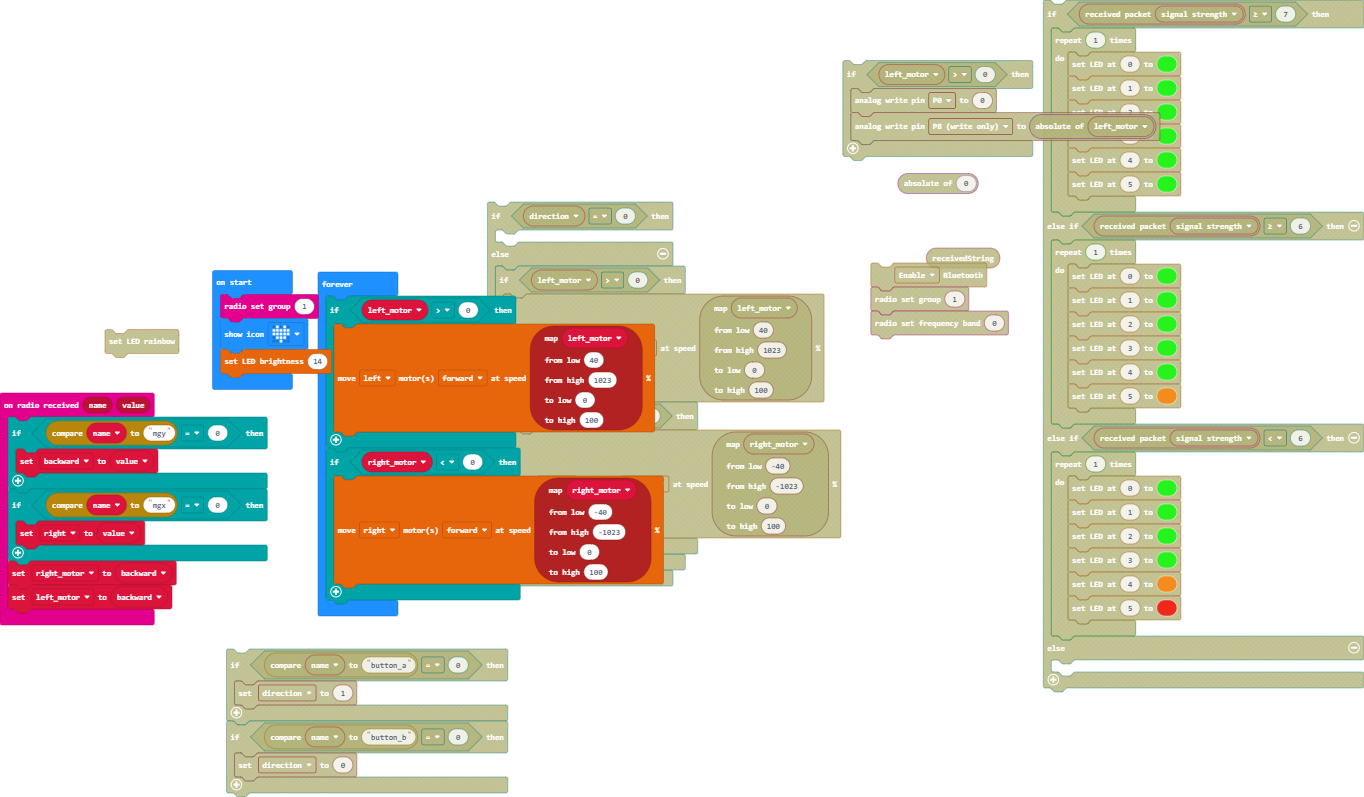
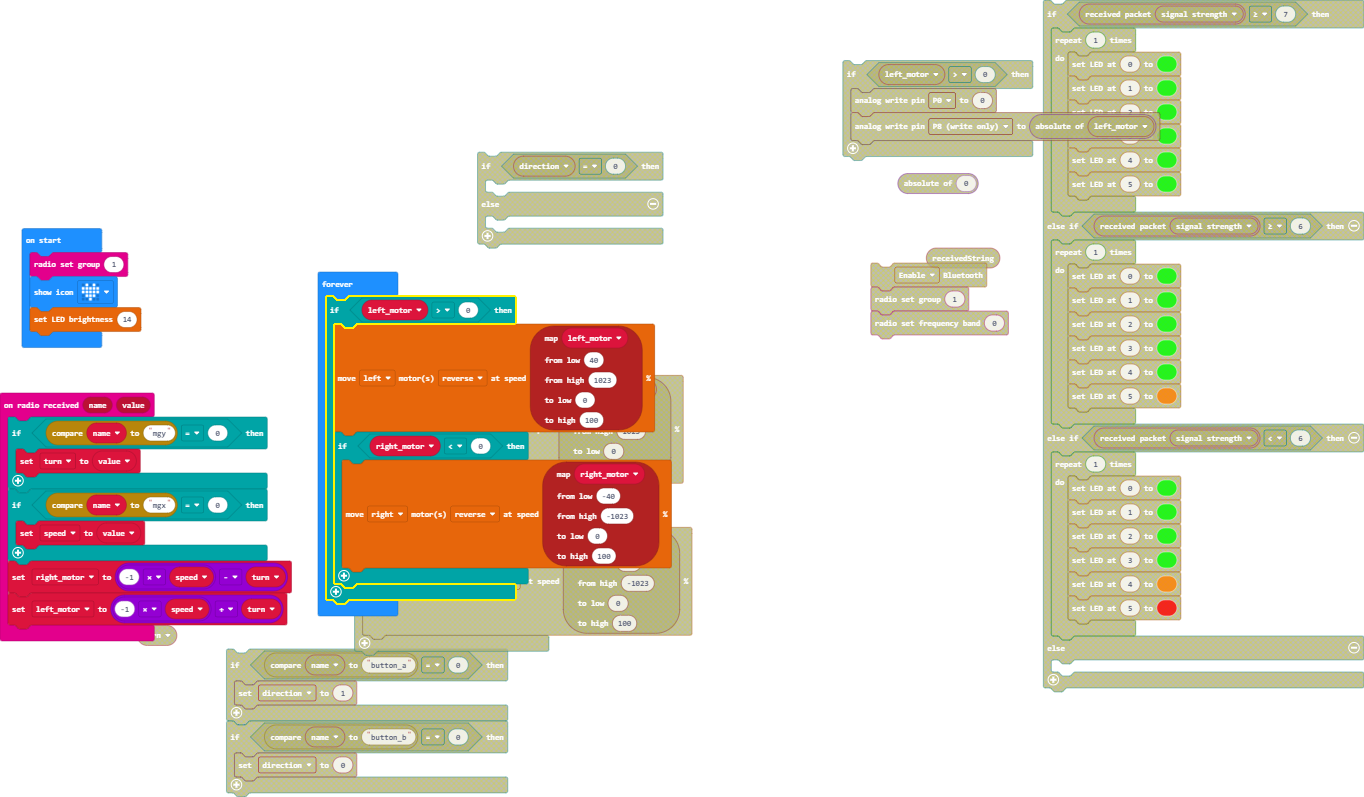
wip: test af venstre motor

Changed region(s): [[0.0, 0.1807, 0.6158, 0.8432], [0.0, 0.271, 0.2463, 0.5119], [0.0308, 0.542, 0.1232, 0.6023]]

diff --git a/main.ts b/main.ts
@@ -1,37 +1,37 @@
 radio.onReceivedValue(function (name, value) {
     if (name.compare("mgy") == 0) {
-        backward = value
+        turn = value
     }
     if (name.compare("mgx") == 0) {
-        right = value
+        speed = value
     }
-    right_motor = backward
-    left_motor = backward
+    right_motor = -1 * speed - turn
+    left_motor = -1 * speed + turn
 })
 let left_motor = 0
 let right_motor = 0
-let right = 0
-let backward = 0
+let speed = 0
+let turn = 0
 radio.setGroup(1)
 basic.showIcon(IconNames.Heart)
 bitbot.ledBrightness(14)
 basic.forever(function () {
     if (left_motor > 0) {
-        bitbot.move(BBMotor.Left, BBDirection.Forward, pins.map(
+        bitbot.move(BBMotor.Left, BBDirection.Reverse, pins.map(
         left_motor,
         40,
         1023,
         0,
         100
         ))
-    }
-    if (right_motor < 0) {
-        bitbot.move(BBMotor.Right, BBDirection.Forward, pins.map(
-        right_motor,
-        -40,
-        -1023,
-        0,
-        100
-        ))
+        if (right_motor < 0) {
+            bitbot.move(BBMotor.Right, BBDirection.Reverse, pins.map(
+            right_motor,
+            -40,
+            -1023,
+            0,
+            100
+            ))
+        }
     }
 })
